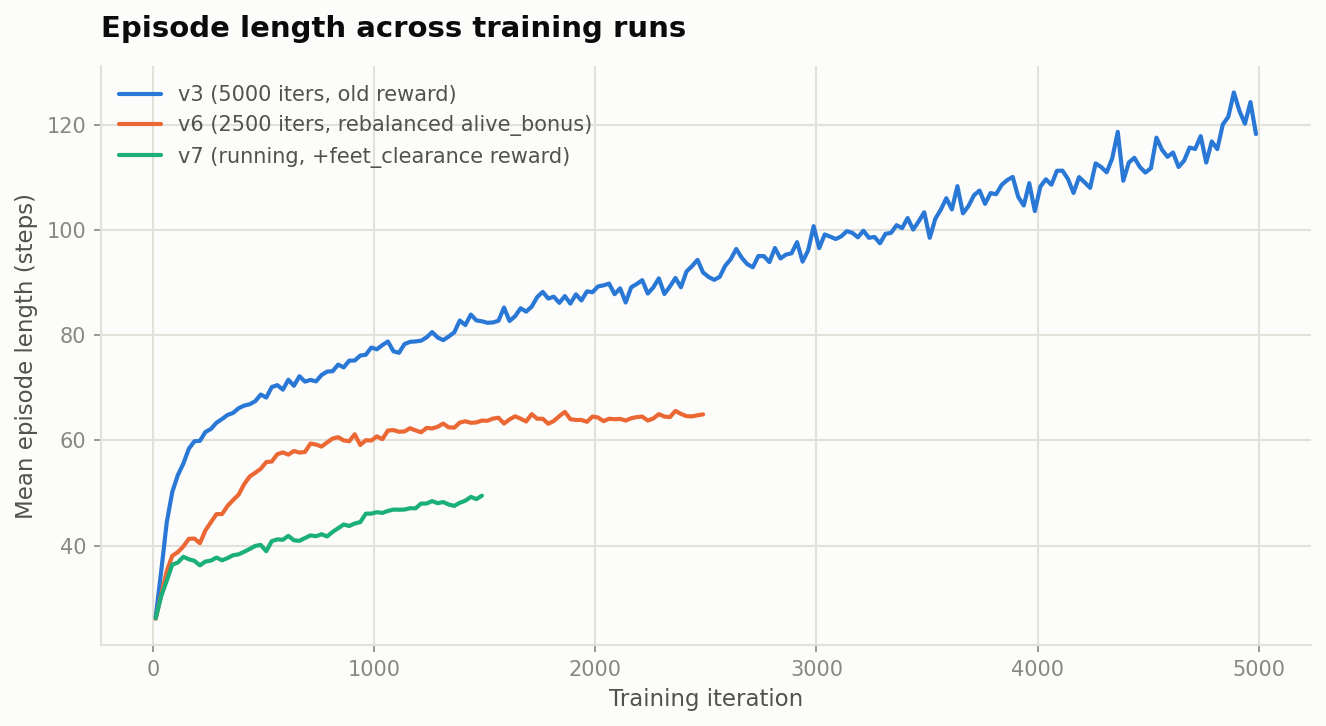
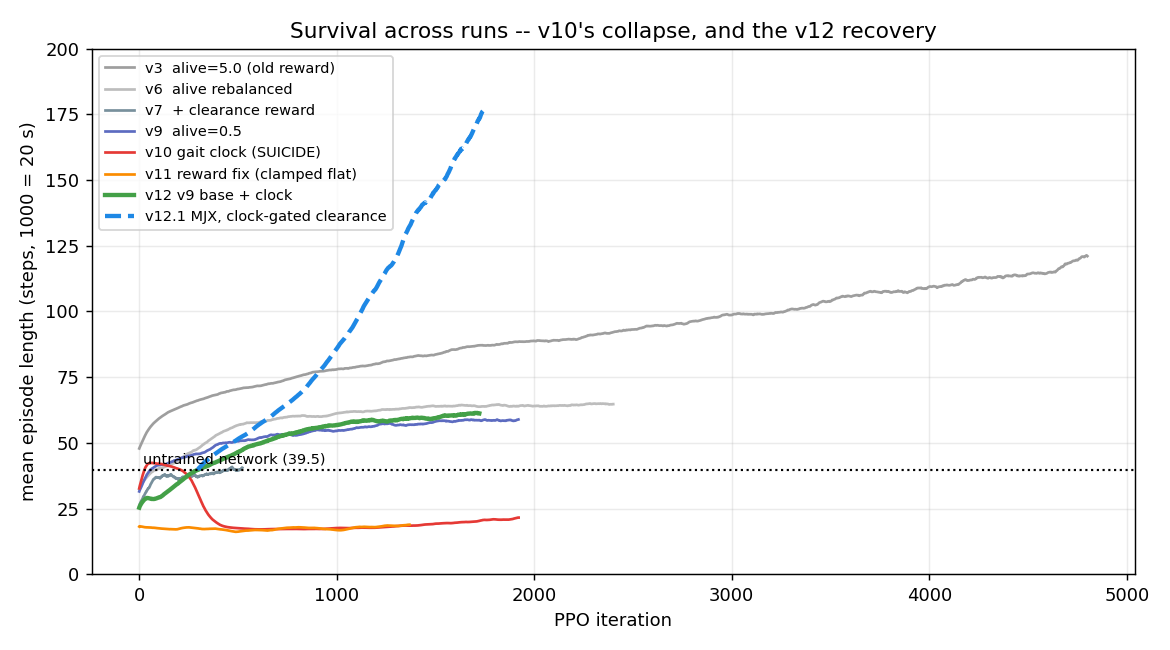
README: integrate v10-v12.1 into the existing results, not alongside them
The previous commit added the new results as their own section sitting ABOVE
"Results", leaving the repo with two disconnected stories: an old progression
table and curves covering v3/v6/v7, and a separate new block about v12. This
merges them into one narrative.

- Regenerates both comparison charts to cover every run (v3, v6, v7, v9, v10,
  v11, v12, v12.1) instead of only the first three. Old-bucket event files were
  still readable, so nothing had to be dropped for lack of data. MJX runs are
  dashed; the untrained-network floor (39.5 steps) is marked.
- Replaces the right-hand chart with corr(mean_reward, episode_length) per run,
  which makes v10's failure legible at a glance: it is the only negative bar
  (-0.70) and the only line that falls below the untrained floor.
- Extends the progression video table with v12 and v12.1 rather than putting
  their clips in a separate section, so the visual story runs random -> v3 ->
  v6 -> v12 -> v12.1 continuously. Notes that the two new clips are 60s with
  --auto_reset, unlike the 6s clips above them.
- Moves the measured-evaluation table into Results, after the curves, where it
  belongs as the culmination rather than as a preamble.
- Adds a one-line-per-run history table to Current status.
- Keeps the original v3 caveat intact and sharpens it: v3 still holds the
  highest raw survival (121 steps) and that is still a reward artifact, not a
  regression in the newer runs. Worth stating plainly rather than quietly
[…]

diff --git a/README.md b/README.md
@@ -30,52 +30,20 @@ on that clock to close a jumping exploit. Two things came out of it:
 - There is now a **real margin over an untrained network**: 60.7 vs 39.5 steps mean survival, and
   airborne time drops from 28.2% to 4.6%.
 
+The run history, in one line each -- the charts under [Results](#training-curves) plot all of it:
+
+| run | change | outcome |
+|---|---|---|
+| `v3` | `alive_bonus=5.0` | 121 steps, but survival-farming; worst velocity tracking |
+| `v6` | alive rebalanced to Unitree's 0.15 | better tracking in half the iterations |
+| `v7` | + foot-clearance reward | policy stood rigid, never stepped |
+| `v9` | `alive_bonus=0.5` | freeze fixed; long strides, dragging foot, pitches over |
+| `v10` | gait clock + full Unitree penalty set | **regression** -- suicide policy, below untrained |
+| `v11` | `only_positive_rewards` on | flat at 18 steps, reward clamped to 0.0 |
+| `v12` | v9 rewards + gait clock only | 61.5 steps, correlation restored to +0.94 |
+| `v12.1` | clock-gated clearance (MJX) | best run; still climbing when it ended |
+
 Full run-by-run diagnostic history: `PROGRESS.md` (local working log, gitignored).
-
-## Best checkpoints
-
-Two training backends were built: the original serial-MuJoCo one, and an MJX (GPU-batched) one.
-Best checkpoint from each, **both evaluated identically** -- 16 envs x 3000 steps (60 s) on the
-full-collision MuJoCo model, against an untrained network as the floor:
-
-| | **MuJoCo** `v12_v9base_clock/model_1750` | **MJX** `v121_mjx_nojump/model_1798` | untrained |
-|---|---|---|---|
-| episode length mean / median | **60.7** / 58.0 | 60.2 / 56.0 | 39.5 / 38.0 |
-| longest single episode | 138 (2.76 s) | **176 (3.52 s)** | 101 (2.02 s) |
-| mean torso tilt | 16.4 deg | 17.1 deg | 11.2 deg |
-| velocity tracking error | **0.700 m/s** | 0.801 m/s | 0.945 m/s |
-| both feet planted | 31.2 % | **40.9 %** | 37.0 % |
-| airborne (no foot down) | **4.6 %** | 9.3 % | 28.2 % |
-| contact transitions / s | 17.61 | **12.04** | 21.47 |
-
-60-second continuous captures with `--auto_reset` on, so a fall respawns and the run continues.
-Not curated -- this is typical behaviour including every fall. The clips below loop the first 8
-seconds; the full 60 s `.mp4` is linked under each:
-
-<table>
-<tr>
-<td align="center" width="50%"><b>MuJoCo -- <code>v12_v9base_clock/model_1750</code></b></td>
-<td align="center" width="50%"><b>MJX -- <code>v121_mjx_nojump/model_1798</code></b></td>
-</tr>
-<tr>
-<td align="center"><img src="media/v12_mujoco_best/preview.gif" width="320"/></td>
-<td align="center"><img src="media/v121_mjx_best/preview.gif" width="320"/></td>
-</tr>
-<tr>
-<td align="center">Best velocity tracking (0.700 m/s) and least airborne time (4.6%), but the
-fastest foot-chatter of the two.<br/>
-<a href="media/v12_mujoco_best/model_1750_20260904_075253.mp4">full 60 s .mp4</a></td>
-<td align="center">Longest single episode (3.52 s), most double support (40.9%) and the cadence
-closest to the gait clock.<br/>
-<a href="media/v121_mjx_best/model_1798_20260904_075904.mp4">full 60 s .mp4</a></td>
-</tr>
-</table>
-
-One caveat worth stating plainly: during training the MJX run logged 176.6 mean episode length
-against MuJoCo's 61.5, which looks like a 2.9x win. It is not a like-for-like number. MJX runs a
-reduced collision set (foot spheres only, no mesh self-collision), so episodes survive longer
-inside it for reasons that do not transfer. Re-evaluated on the same full-collision model, the two
-are **statistically tied**. Training-log episode lengths are only comparable within a backend.
 
 ## Method, in brief
 
@@ -120,15 +88,32 @@ rebalancing <code>alive_bonus</code> so survival stops dominating the reward (se
 <a href="src/README.md">src/README.md</a>). Still falls; doesn't yet attempt to lift a foot.<br/>
 <a href="media/progression/03_v6_2500iter_rebalanced.mp4">full-res .mp4</a></td>
 </tr>
+<tr><td colspan="2">&nbsp;</td></tr>
+<tr>
+<td align="center" width="50%"><b><code>v12</code> -- MuJoCo, v9 reward + gait clock</b></td>
+<td align="center" width="50%"><b><code>v12.1</code> -- MJX, clock-gated clearance</b></td>
+</tr>
+<tr>
+<td align="center"><img src="media/v12_mujoco_best/preview.gif" width="320"/></td>
+<td align="center"><img src="media/v121_mjx_best/preview.gif" width="320"/></td>
+</tr>
+<tr>
+<td align="center">Takes real alternating steps and stays upright noticeably longer, but the
+cadence is far too fast and it still topples. Best velocity tracking of any run (0.700 m/s).<br/>
+<a href="media/v12_mujoco_best/model_1750_20260904_075253.mp4">full 60 s .mp4</a></td>
+<td align="center">Best single episode of the project (3.52 s) and the cadence closest to the
+gait clock, with the most double support (40.9%).<br/>
+<a href="media/v121_mjx_best/model_1798_20260904_075904.mp4">full 60 s .mp4</a></td>
+</tr>
 </table>
+
+Unlike the 6-second clips above, the two `v12` clips are **60-second** captures with
+`--auto_reset` on, so every fall respawns and the run continues -- the GIFs loop the first 8
+seconds, and each full minute is linked underneath.
 
 ### Training curves
 
-Two metrics, three runs -- read together, not separately. `v3` "wins" on raw survival time, but
-that's mostly a reward-shaping artifact (a large `alive_bonus` rewarding survival regardless of
-tracking quality). `v6` and `v7` -- with that bonus rebalanced down to Unitree's own official
-value -- reach *better* velocity-tracking quality in under half the iterations, which is the
-metric that actually reflects walking ability:
+Every run to date, read together rather than separately (dashed = MJX backend):
 
 <table>
 <tr>
@@ -137,8 +122,47 @@ metric that actually reflects walking ability:
 </tr>
 </table>
 
-Live, explorable versions of every logged metric (not just these two) are on
+Four things these show:
+
+- **`v3` still "wins" on raw survival (121 steps) and always did** -- but that is a reward-shaping
+  artifact, not walking. Its `alive_bonus=5.0` paid for survival regardless of tracking quality,
+  and its velocity tracking (left panel of the second chart) is the *worst* of every run that
+  trained properly. Survival alone is not the metric.
+- **`v10` is the one line that goes down.** It crosses below the untrained-network floor (dotted,
+  39.5 steps) and stays there. The right-hand chart says why: `corr(reward, episode_length)`
+  = **-0.70**, the only negative bar. It was being paid to die.
+- **`v11` is flat at ~18 steps with tracking pinned near zero** -- the orange line along the
+  bottom. Enabling `only_positive_rewards` without also rebalancing the scales clamped the total
+  reward to exactly 0.0 on essentially every step, leaving PPO no gradient at all.
+- **`v12`/`v12.1` restore the correlation to +0.94/+0.98** and climb steadily. `v12.1` was still
+  rising when the run ended -- it did not converge, it ran out of iterations.
+
+Live, explorable versions of every logged metric are on
 [Weights & Biases](https://wandb.ai/shubhamt2897-hochschule-schmalkalden/g1_robust_locomotion).
+
+### Best checkpoints, measured
+
+Training-log curves are not directly comparable across backends: MJX runs a reduced collision set
+(foot spheres only, no mesh self-collision), so episodes survive longer inside it for reasons that
+do not transfer. `v12.1` logged 176.6 mean episode length against `v12`'s 61.5 -- a 2.9x gap that
+**disappears** under equal evaluation.
+
+So both were re-run identically: 16 envs x 3000 steps (60 s) on the full-collision MuJoCo model,
+with an untrained network as the floor.
+
+| | **MuJoCo** `v12_v9base_clock/model_1750` | **MJX** `v121_mjx_nojump/model_1798` | untrained |
+|---|---|---|---|
+| episode length mean / median | **60.7** / 58.0 | 60.2 / 56.0 | 39.5 / 38.0 |
+| longest single episode | 138 (2.76 s) | **176 (3.52 s)** | 101 (2.02 s) |
+| mean torso tilt | 16.4 deg | 17.1 deg | 11.2 deg |
+| velocity tracking error | **0.700 m/s** | 0.801 m/s | 0.945 m/s |
+| both feet planted | 31.2 % | **40.9 %** | 37.0 % |
+| airborne (no foot down) | **4.6 %** | 9.3 % | 28.2 % |
+| contact transitions / s | 17.61 | **12.04** | 21.47 |
+
+On equal footing the two are **statistically tied** at ~60 steps. Both clear the untrained
+baseline properly, and airborne time collapsing from 28.2% to 4.6-9.3% is the clearest sign the
+policies are genuinely controlling the body rather than flailing.
 
 ### Where it still falls short
 
